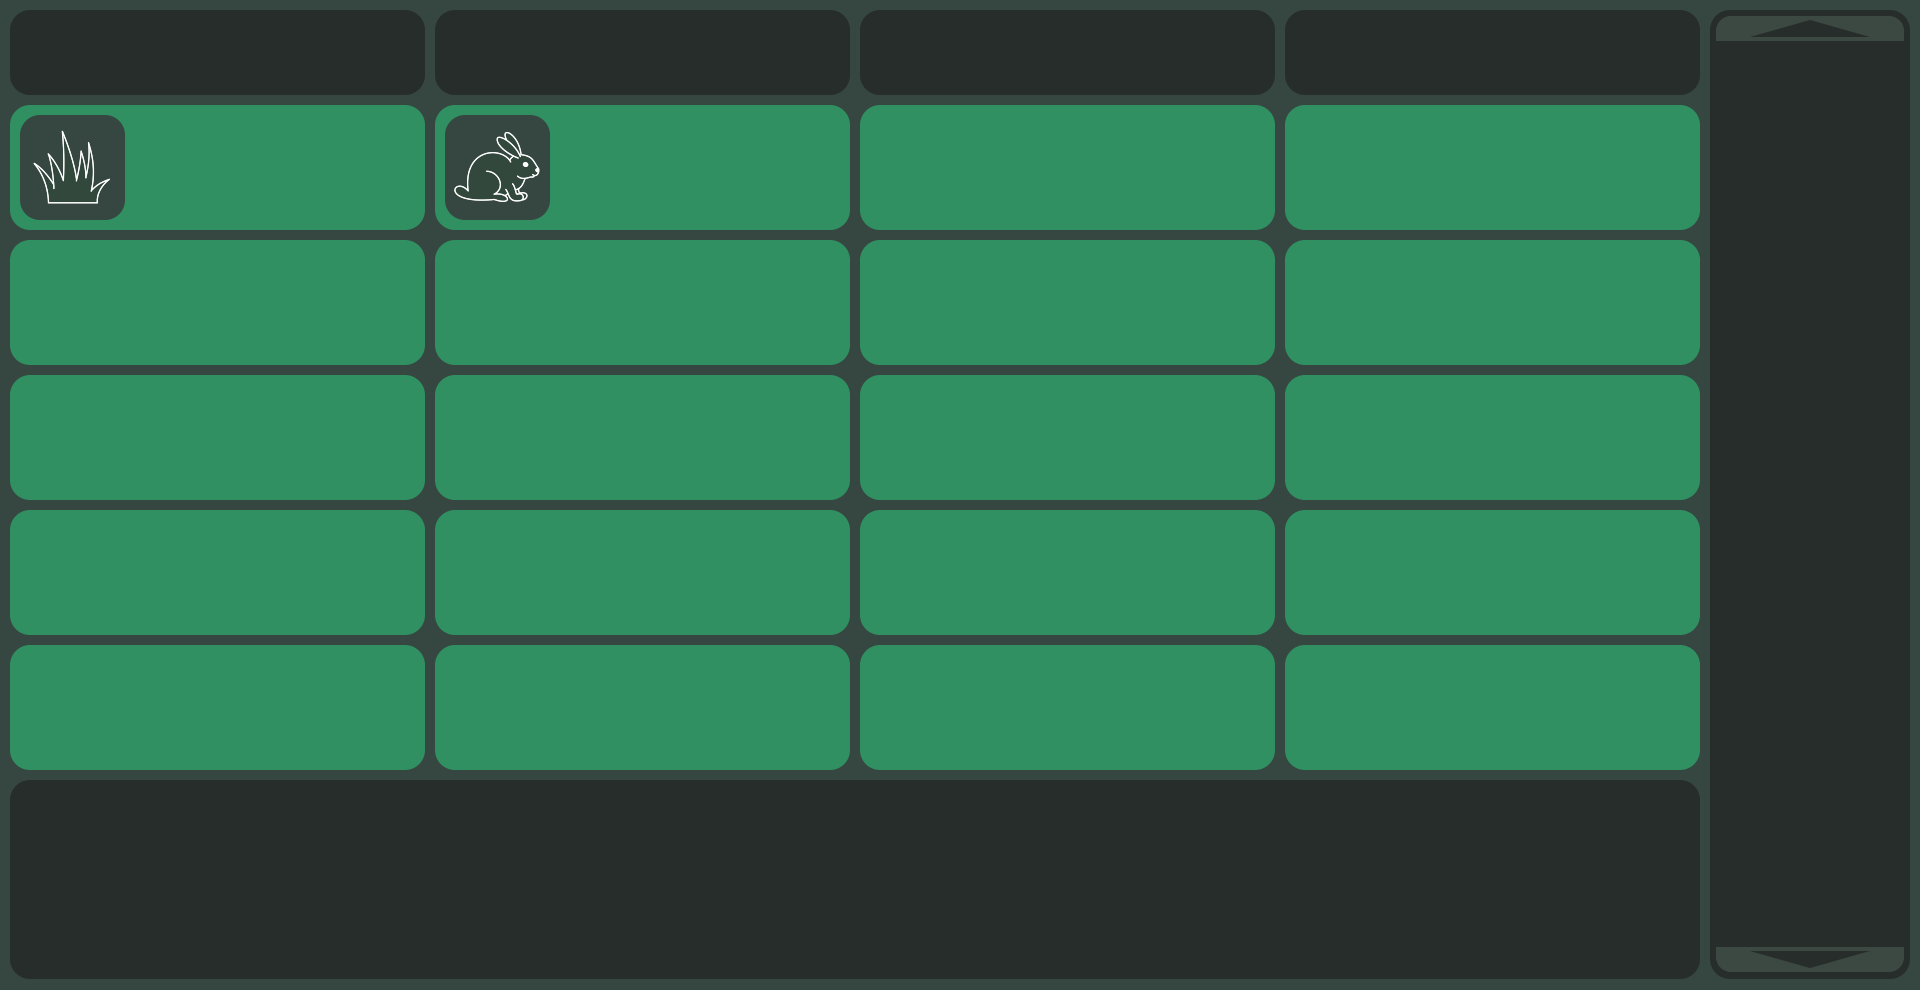
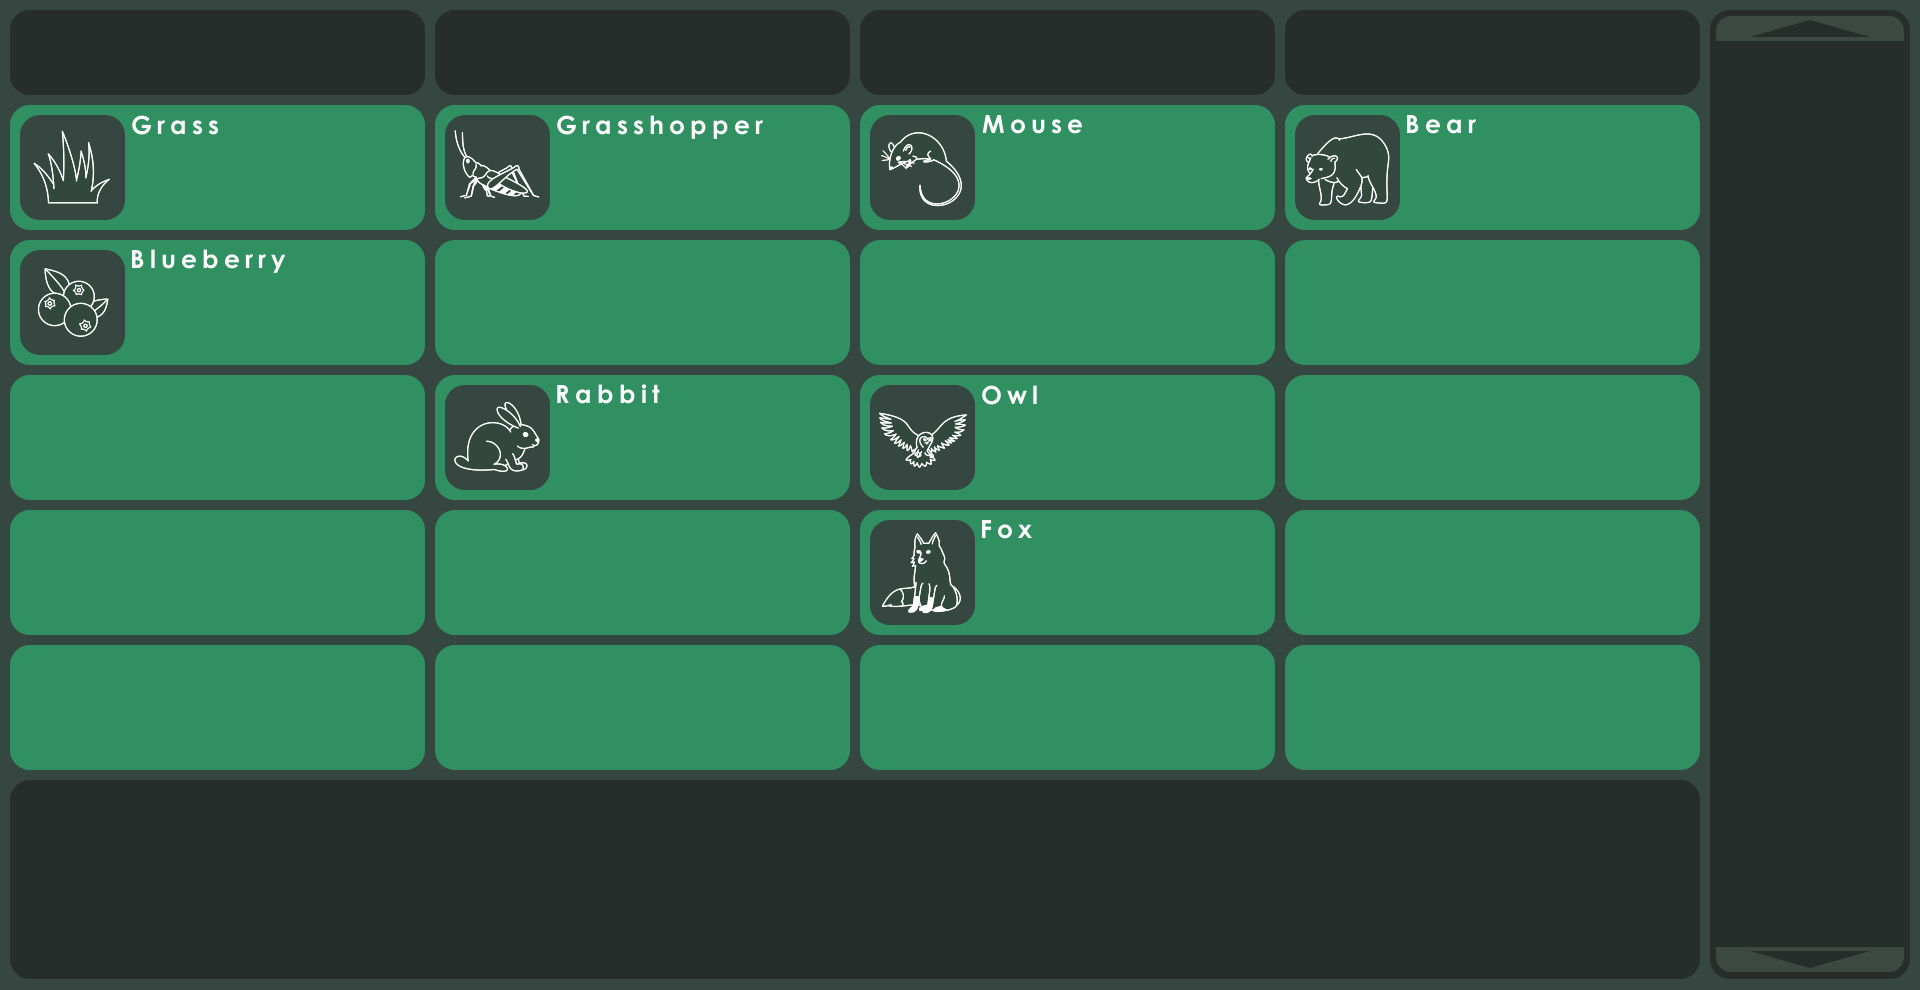
Update simulation screen

diff --git a/project-biology/project-biology/front-end.cpp b/project-biology/project-biology/front-end.cpp
@@ -6,12 +6,14 @@ void updateTextSize(tgui::BackendGui& gui)
     gui.setTextSize(static_cast<unsigned int>(0.04f * windowHeight));
 }
 
-void removeLockedOverlay(tgui::BackendGui& gui, tgui::Picture::Ptr pic)
+size_t removeLockedOverlay(tgui::BackendGui& gui, tgui::Picture::Ptr pic, size_t id)
 {
     gui.remove(pic);
+
+    return id;
 }
 
-void simulationScreen(tgui::BackendGui& gui)
+void simulationScreen(tgui::BackendGui& gui, tgui::Label::Ptr userName)
 {
     gui.removeAllWidgets();
 
@@ -27,6 +29,7 @@ void simulationScreen(tgui::BackendGui& gui)
     symulationBackground->setSize({ "100%", "100%" });
     gui.add(symulationBackground);
 
+    // Sistem manipulation
     auto buttonStart = tgui::Button::create("");
     buttonStart->setSize({ "8.85%", "17.17%" });
     buttonStart->setPosition({ "1.25%", "80.10%" });
@@ -40,18 +43,52 @@ void simulationScreen(tgui::BackendGui& gui)
     label->setTextSize(16);
     gui.add(label);
 
+    auto buttonExit = tgui::Button::copy(buttonStart);
+    buttonExit->setPosition({ "78.95%", "80.10%" });
+    buttonExit->setRenderer(menuTheme.getRenderer("ButtonExit"));
+    buttonExit->onPress([&gui, userName] { mainMenu(gui, userName); });
+    gui.add(buttonExit);
+
     // Locked items
-    auto rabbitLocked = tgui::Picture::create("../src/objects/locked.png");
-    rabbitLocked->setSize({ "21.61%", "12.62%" });
-    rabbitLocked->setPosition({ "22.65%", "10.60%" });
+    auto grassLocked = tgui::Picture::create("../src/objects/locked.png");
+    grassLocked->setSize({ "21.61%", "12.62%" });
+    grassLocked->setPosition({ "0.52%", "10.60%" });
+    gui.add(grassLocked);
+
+    auto blueberryLocked = tgui::Picture::copy(grassLocked);
+    blueberryLocked->setPosition({ "0.52%", "24.24%" });
+    gui.add(blueberryLocked);
+
+    auto grasshopperLocked = tgui::Picture::copy(grassLocked);
+    grasshopperLocked->setPosition({ "22.65%", "10.60%" });
+    gui.add(grasshopperLocked);
+
+    auto rabbitLocked = tgui::Picture::copy(grassLocked);
+    rabbitLocked->setPosition({ "22.65%", "37.87%" });
     gui.add(rabbitLocked);
+
+    auto mouseLocked = tgui::Picture::copy(grassLocked);
+    mouseLocked->setPosition({ "44.79%", "10.60%" });
+    gui.add(mouseLocked);
+
+    auto owlLocked = tgui::Picture::copy(grassLocked);
+    owlLocked->setPosition({ "44.79%", "37.87%" });
+    gui.add(owlLocked);
+
+    auto foxLocked = tgui::Picture::copy(grassLocked);
+    foxLocked->setPosition({ "44.79%", "51.51%" });
+    gui.add(foxLocked);
+
+    auto bearLocked = tgui::Picture::copy(grassLocked);
+    bearLocked->setPosition({ "66.92%", "10.60%" });
+    gui.add(bearLocked);
 
     // Object buttons
     auto buttonObjRabbit = tgui::Button::create("");
     buttonObjRabbit->setSize({ "4.68%", "9.09%" });
     buttonObjRabbit->setPosition({ "89.37%", "4.74%" });
     buttonObjRabbit->setRenderer(objectsTheme.getRenderer("ButtonObjRabbit"));
-    buttonObjRabbit->onPress([&gui, rabbitLocked] { removeLockedOverlay(gui, rabbitLocked); });
+    buttonObjRabbit->onPress([&gui, rabbitLocked] { removeLockedOverlay(gui, rabbitLocked, 1); });
     gui.add(buttonObjRabbit);
 
     auto buttonObjMouse = tgui::Button::copy(buttonObjRabbit);
@@ -99,7 +136,7 @@ void mainMenu(tgui::BackendGui& gui, tgui::Label::Ptr userName)
     auto buttonPlay = tgui::Button::create("");
     buttonPlay->setSize({ "18.7%", "33.3%" });
     buttonPlay->setPosition({ "30.9%", "16%" });
-    buttonPlay->onPress([&gui] { simulationScreen(gui); });
+    buttonPlay->onPress([&gui, userName] { simulationScreen(gui, userName); });
     buttonPlay->setRenderer(menuTheme.getRenderer("ButtonPlay"));
     gui.add(buttonPlay);
 
@@ -115,8 +152,8 @@ void mainMenu(tgui::BackendGui& gui, tgui::Label::Ptr userName)
 
     auto buttonQuit = tgui::Button::copy(buttonPlay);
     buttonQuit->setPosition({ "50.4%", "50.7%" });
-    buttonQuit->onPress([&gui] { logInScreen(gui); });
     buttonQuit->setRenderer(menuTheme.getRenderer("ButtonQuit"));
+    buttonQuit->onPress([] { return; });
     gui.add(buttonQuit);
 
     gui.add(userName);
@@ -142,7 +179,7 @@ void logInScreen(tgui::BackendGui& gui)
     auto picture = tgui::Picture::create("../src/log-in-ui.png");
     picture->setSize({ "100%", "100%" });
     gui.add(picture);
-    
+
     tgui::Theme menuTheme{ "../src/theme-menu.txt" };
 
     auto userName = tgui::Label::create();

diff --git a/project-biology/project-biology/front-end.h b/project-biology/project-biology/front-end.h
@@ -5,7 +5,7 @@
 #include "../../2122-10-biology-SSUzunov19/project-biology/pb.bll/login.h"
 
 void updateTextSize(tgui::BackendGui& gui);
-void simulationScreen(tgui::BackendGui& gui);
+void simulationScreen(tgui::BackendGui& gui, tgui::Label::Ptr userName);
 void mainMenu(tgui::BackendGui& gui, tgui::Label::Ptr userName);
 void logInScreen(tgui::BackendGui& gui);
 void logIn(tgui::EditBox::Ptr username, tgui::EditBox::Ptr password);
